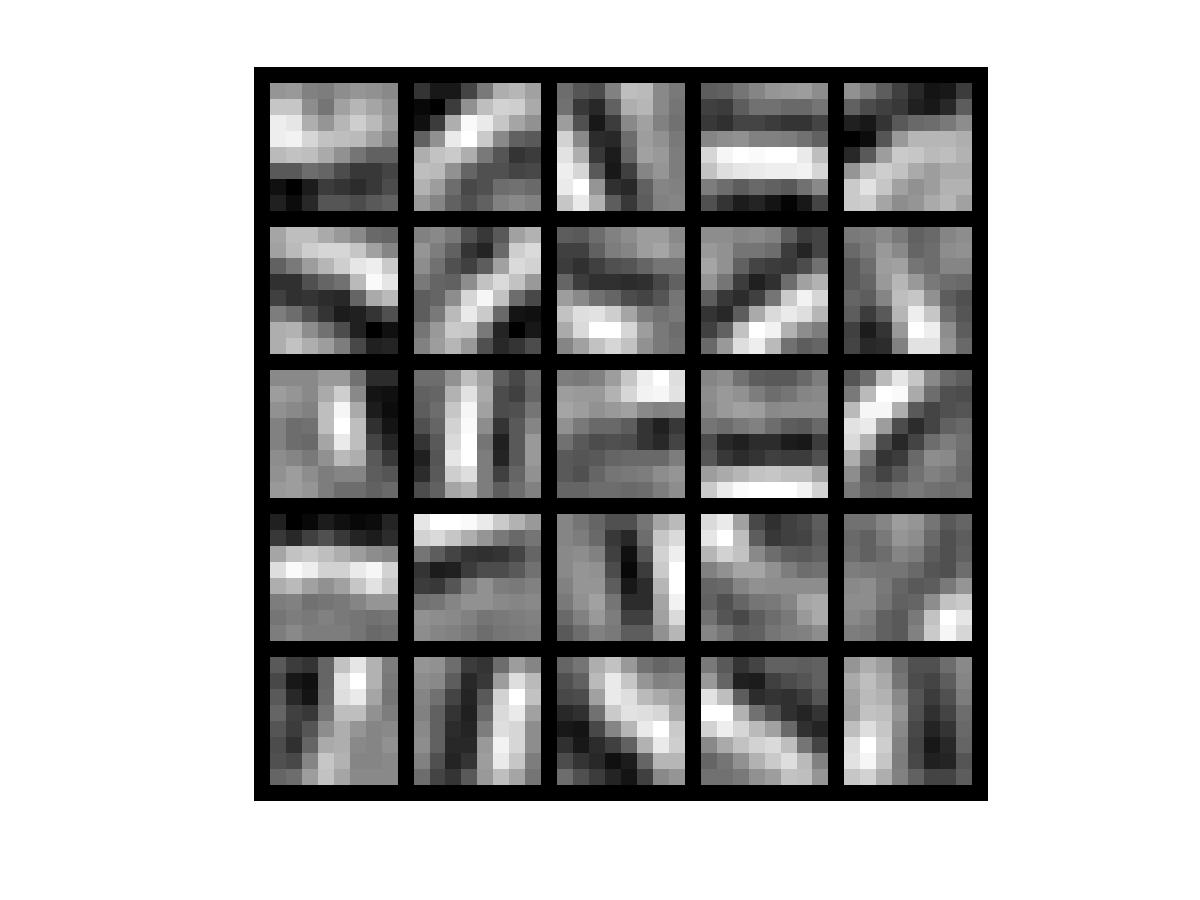
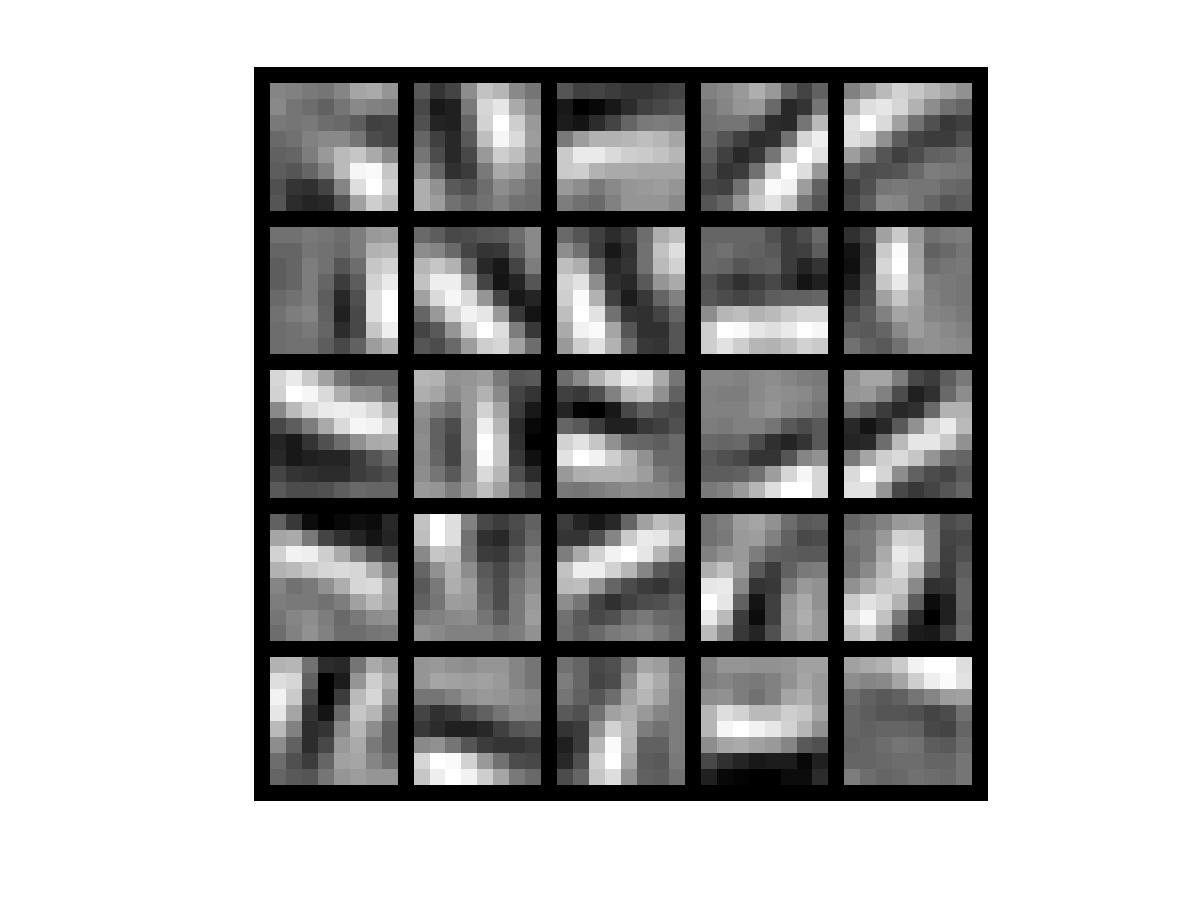
minist 手写输入识别

Changed region(s): [[0.2158, 0.0933, 0.8325, 0.8711]]

diff --git a/train_minist.m b/train_minist.m
@@ -1,0 +1,133 @@
+%% CS294A/CS294W Programming Assignment Starter Code
+addpath minist_help/
+%  Instructions
+%  ------------
+% 
+%  This file contains code that helps you get started on the
+%  programming assignment. You will need to complete the code in sampleIMAGES.m,
+%  sparseAutoencoderCost.m and computeNumericalGradient.m. 
+%  For the purpose of completing the assignment, you do not need to
+%  change the code in this file. 
+%
+%%======================================================================
+%% STEP 0: Here we provide the relevant parameters values that will
+%  allow your sparse autoencoder to get good filters; you do not need to 
+%  change the parameters below.
+
+visibleSize = 28*28
+hiddenSize = 196
+sparsityParam = 0.1
+lambda = 3e-3
+beta = 3
+%patches = first 10000 images from the MNIST dataset
+check_gradient=false ; 
+%%======================================================================
+%% STEP 1: Implement sampleIMAGES
+% Change the filenames if you've saved the files under different names
+% On some platforms, the files might be saved as 
+% train-images.idx3-ubyte / train-labels.idx1-ubyte
+images = loadMNISTImages('train-images-idx3-ubyte');
+%labels = loadMNISTLabels('train-labels-idx1-ubyte');
+ patches=images(:,1:10000);
+% We are using display_network from the autoencoder code
+display_network(images(:,1:100)); % Show the first 100 images
+%disp(labels(1:10));
+%  Obtain random parameters theta
+theta = initializeParameters(hiddenSize, visibleSize);
+
+%%======================================================================
+%% STEP 2: Implement sparseAutoencoderCost
+%
+%  You can implement all of the components (squared error cost, weight decay term,
+%  sparsity penalty) in the cost function at once, but it may be easier to do 
+%  it step-by-step and run gradient checking (see STEP 3) after each step.  We 
+%  suggest implementing the sparseAutoencoderCost function using the following steps:
+%
+%  (a) Implement forward propagation in your neural network, and implement the 
+%      squared error term of the cost function.  Implement backpropagation to 
+%      compute the derivatives.   Then (using lambda=beta=0), run Gradient Checking 
+%      to verify that the calculations corresponding to the squared error cost 
+%      term are correct.
+%
+%  (b) Add in the weight decay term (in both the cost function and the derivative
+%      calculations), then re-run Gradient Checking to verify correctness. 
+%
+%  (c) Add in the sparsity penalty term, then re-run Gradient Checking to 
+%      verify correctness.
+%
+%  Feel free to change the training settings when debugging your
+%  code.  (For example, reducing the training set size or 
+%  number of hidden units may make your code run faster; and setting beta 
+%  and/or lambda to zero may be helpful for debugging.)  However, in your 
+%  final submission of the visualized weights, please use parameters we 
+%  gave in Step 0 above.
+% 
+  [cost, grad] = sparseAutoencoderCost(theta, visibleSize, hiddenSize, lambda, ...
+                              sparsityParam, beta,  patches(:,1:200) );
+% 
+% %%======================================================================
+% %% STEP 3: Gradient Checking
+% %
+% % Hint: If you are debugging your code, performing gradient checking on smaller models 
+% % and smaller training sets (e.g., using only 10 training examples and 1-2 hidden 
+% % units) may speed things up.
+% 
+% % First, lets make sure your numerical gradient computation is correct for a
+% % simple function.  After you have implemented computeNumericalGradient.m,
+% % run the following: 
+checkNumericalGradient();
+
+% Now we can use it to check your cost function and derivative calculations
+% for the sparse autoencoder.  
+if check_gradient
+    
+    
+
+
+numgrad = computeNumericalGradient( @(x) sparseAutoencoderCost(x, visibleSize, ...
+                                                  hiddenSize, lambda, ...
+                                                  sparsityParam, beta, ...
+                                                  patches(:,1:200) ), theta);
+                                             
+% Compare numerically computed gradients with the ones obtained from backpropagation
+diff = norm(numgrad-grad)/norm(numgrad+grad);
+ 
+disp(diff); 
+
+    end
+%%======================================================================
+%% STEP 4: After verifying that your implementation of
+%  sparseAutoencoderCost is correct, You can start training your sparse
+%  autoencoder with minFunc (L-BFGS).
+
+%  Randomly initialize the parameters
+theta = initializeParameters(hiddenSize, visibleSize);
+
+%  Use minFunc to minimize the function
+addpath minFunc/
+options.Method = 'lbfgs'; % Here, we use L-BFGS to optimize our cost
+                          % function. Generally, for minFunc to work, you
+                          % need a function pointer with two outputs: the
+                          % function value and the gradient. In our problem,
+                          % sparseAutoencoderCost.m satisfies this.
+options.maxIter = 400;	  % Maximum number of iterations of L-BFGS to run 
+options.display = 'on';
+options.maxFunEvals=4000;
+options.tolX=1e-12
+
+
+[opttheta, cost] = minFunc( @(p) sparseAutoencoderCost(p, ...
+                                   visibleSize, hiddenSize, ...
+                                   lambda, sparsityParam, ...
+                                   beta, patches), ...
+                              theta, options);
+
+%%======================================================================
+%% STEP 5: Visualization 
+
+W1 = reshape(opttheta(1:hiddenSize*visibleSize), hiddenSize, visibleSize);
+display_network(W1', 12); 
+
+print -djpeg weights_minist.jpg   % save the visualization to a file 
+
+
